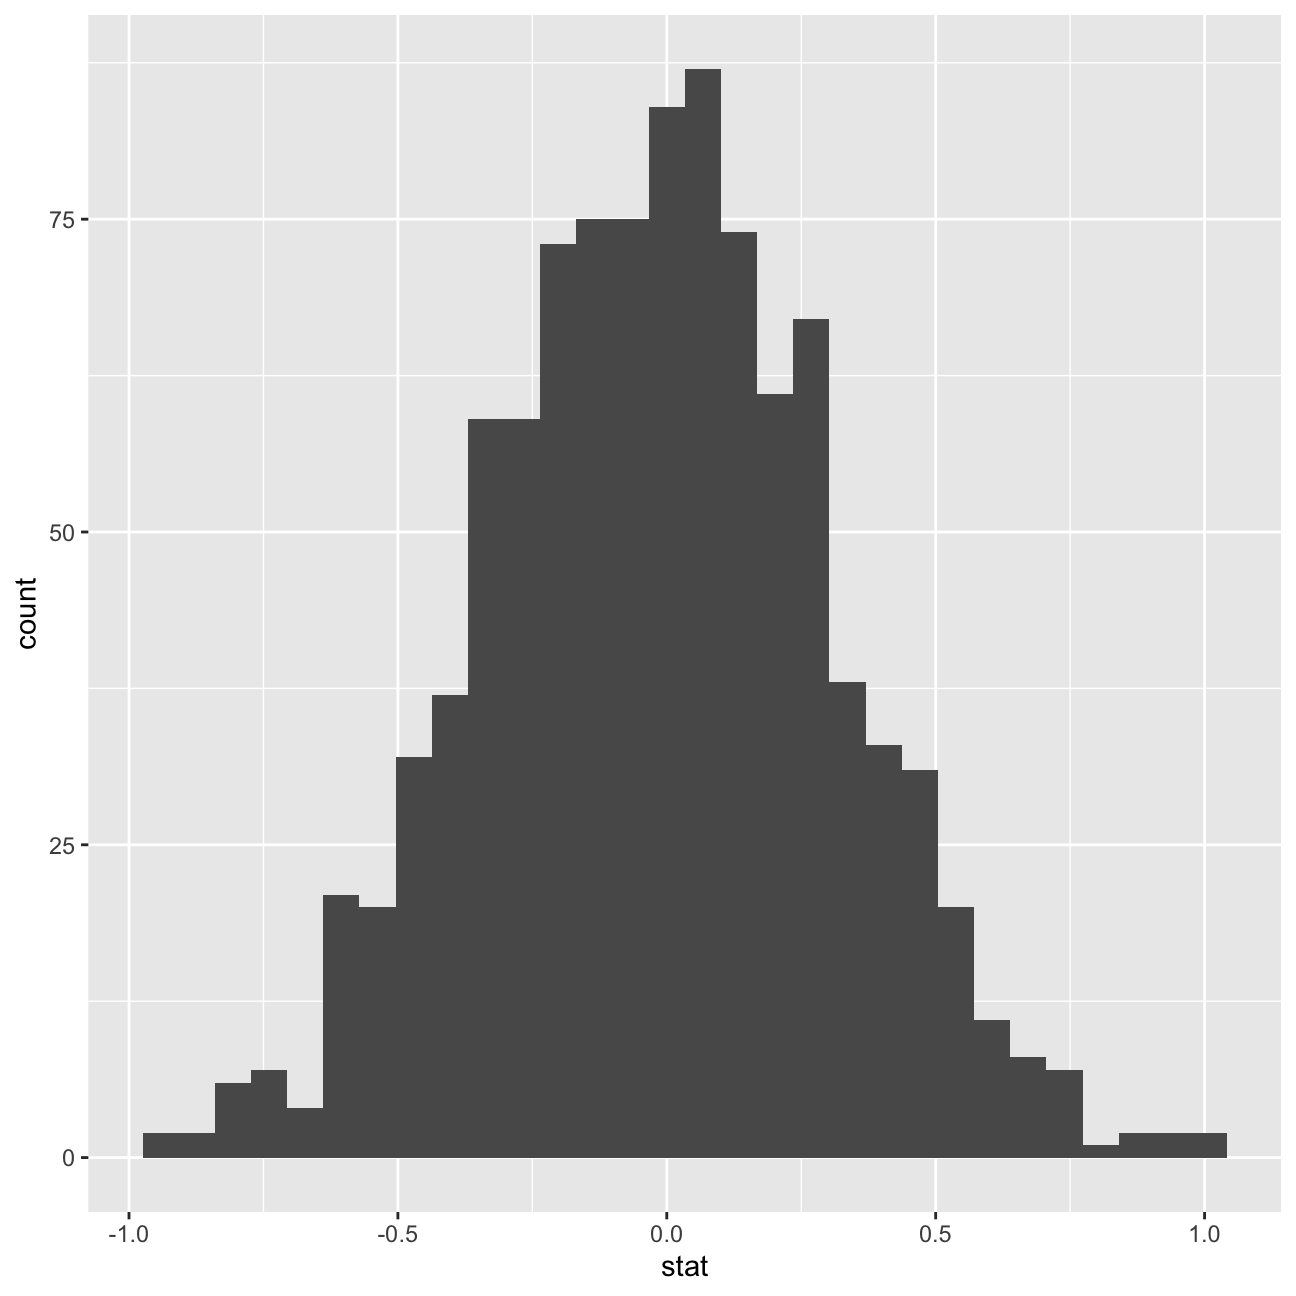
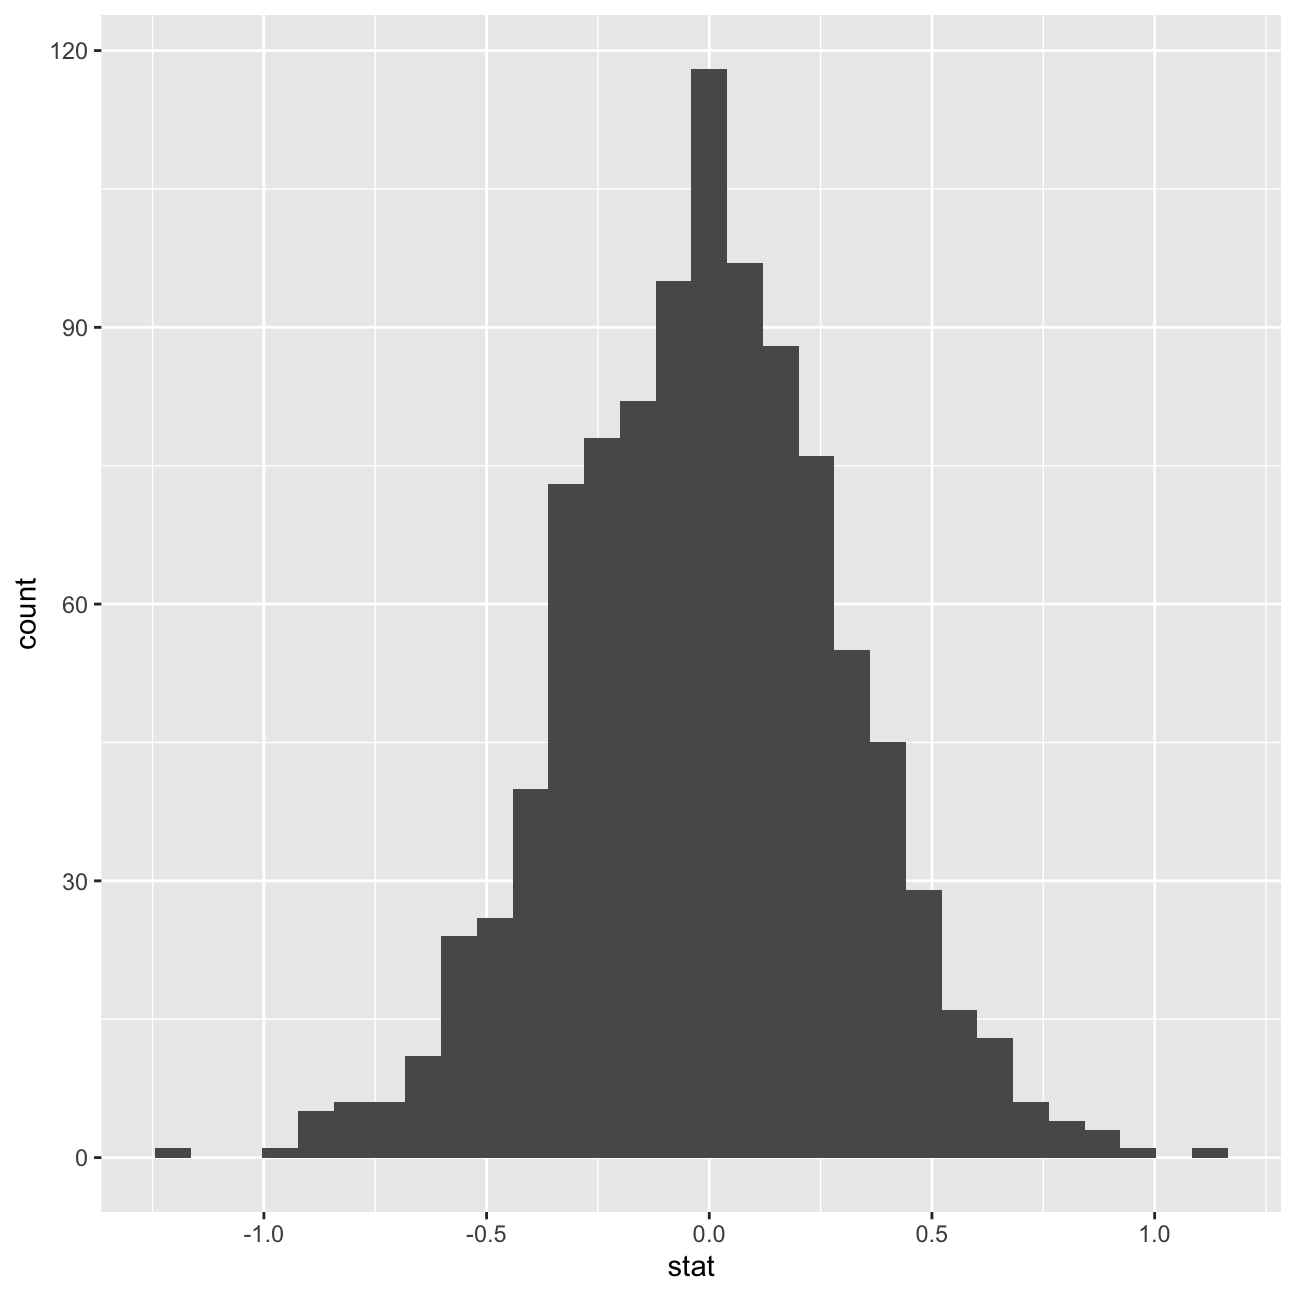
newest version

diff --git a/content/english/blog/homework3_final_group1.html b/content/english/blog/homework3_final_group1.html
@@ -4,8 +4,8 @@ draft: false
 image: images/slider/Hockey_Team.jpeg # save picture in \static\img\blogs. Acceptable formats= jpg, jpeg, or png . Your iPhone pics wont work
 
 keywords: ""
-slug: phys_act # slug is the shorthand URL address... no spaces plz
-title: "Session 6: Homework 3"
+slug: homework3 # slug is the shorthand URL address... no spaces plz
+title: "The Relationship between Physical Activity and Weight"
 author: "Group 1: Alex Scheuer, Dhruvi Mundra, Heng Jian Shun, Marta Wnek, Sharon Wenyu Xu, Xueying Liu"
 date: "2022-09-20"
 output:
@@ -555,16 +555,16 @@ null_dist</code></pre>
 ## # A tibble: 1,000 × 2
 ##    replicate    stat
 ##        &lt;int&gt;   &lt;dbl&gt;
-##  1         1  0.295 
-##  2         2 -0.574 
-##  3         3 -0.150 
-##  4         4  0.134 
-##  5         5  0.0479
-##  6         6  0.236 
-##  7         7  0.0563
-##  8         8 -0.538 
-##  9         9 -0.244 
-## 10        10 -0.118 
+##  1         1 -0.121 
+##  2         2  0.118 
+##  3         3 -0.391 
+##  4         4  0.232 
+##  5         5 -0.220 
+##  6         6  0.0310
+##  7         7  0.0134
+##  8         8 -0.413 
+##  9         9  0.0229
+## 10        10  0.0599
 ## # … with 990 more rows</code></pre>
 <p>Here, <code>hypothesize</code> is used to set the null hypothesis as a test for independence, i.e., that there is no difference between the two population means. In one sample cases, the null argument can be set to <em>point</em> to test a hypothesis relative to a point estimate.</p>
 <p>Also, note that the <code>type</code> argument within generate is set to permute, which is the argument when generating a null distribution for a hypothesis test.</p>
